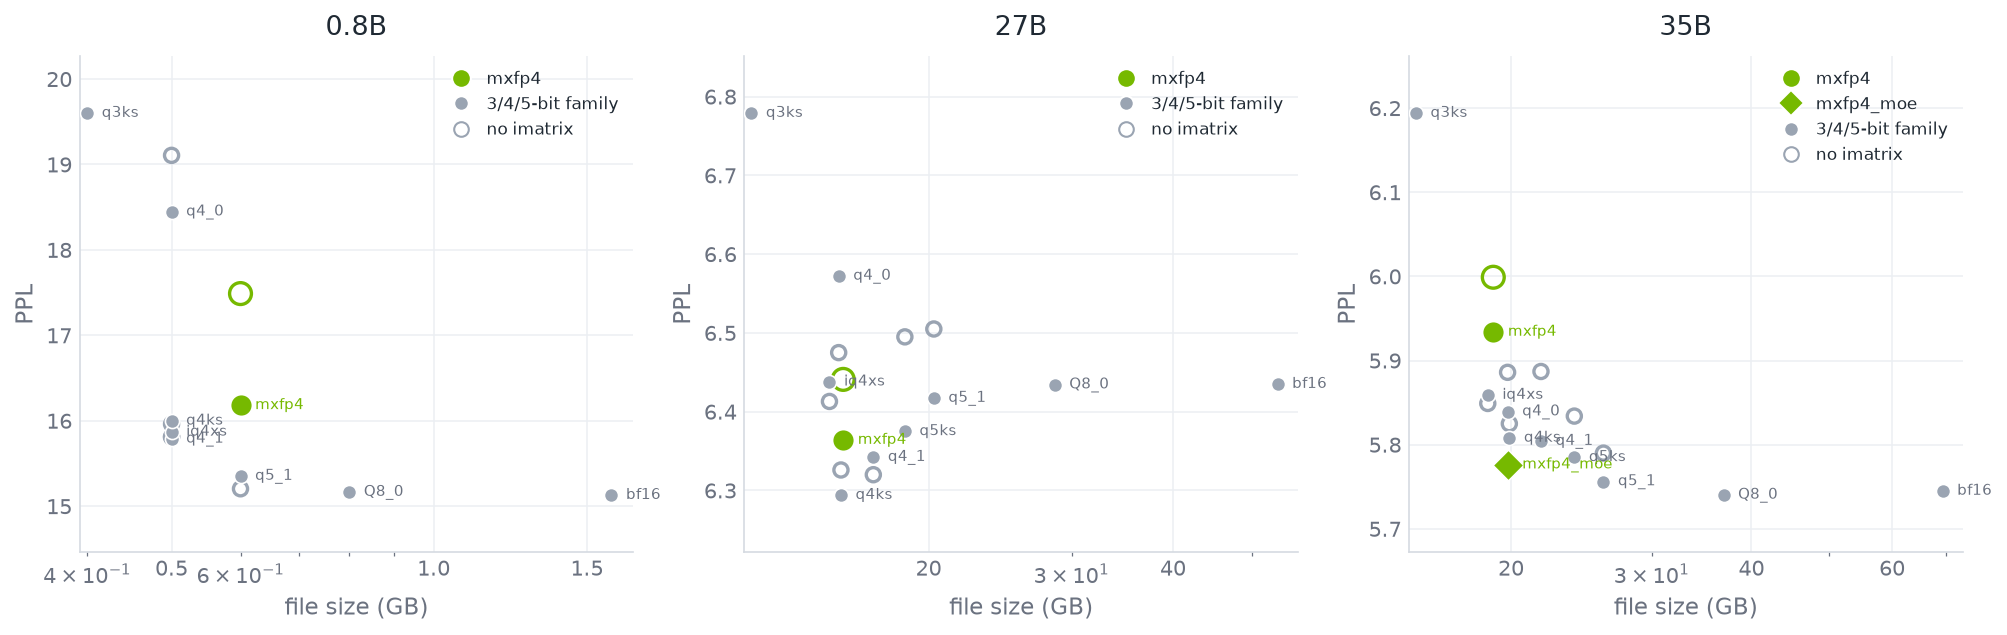
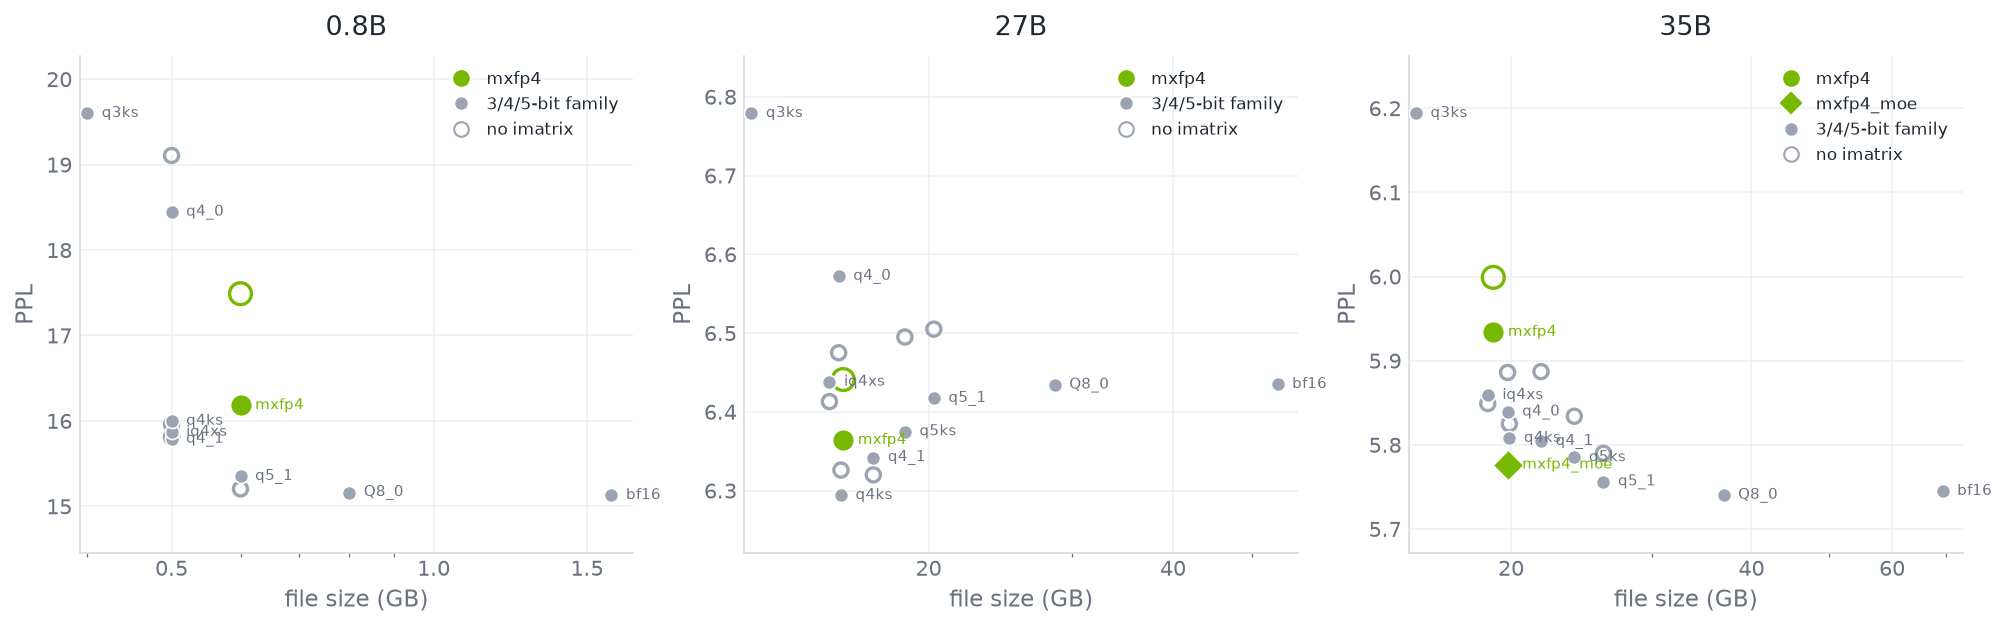
Charts: suppress log-axis minor tick labels - they rendered in scientific notation (2x10^-1, 3.6x10^2, ...); only regular-number major ticks remain labeled
Assisted-by: pi

diff --git a/charts.py b/charts.py
@@ -67,6 +67,7 @@ def style_axes(ax, title=None, xlabel=None, ylabel=None, xlog=False):
         ax.set_ylabel(ylabel, fontsize=11, color=PALETTE["muted"])
     if xlog:
         ax.set_xscale("log")
+        ax.tick_params(which="minor", labelbottom=False, labelleft=False)
     return ax
 
 
@@ -199,6 +200,7 @@ def kv_cache():
         bt = axt.bar(KV_TYPES, [d["tg"][t] for t in KV_TYPES], color=[kv_color(t) for t in KV_TYPES], width=0.72)
         axt.bar_label(bt, fmt="%.1f", fontsize=7, color=PALETTE["text"], padding=2)
         axt.set_yscale("log")
+        axt.tick_params(which="minor", labelleft=False, labelbottom=False)
         axt.set_ylim(min(d["tg"].values()) * 0.9, max(d["tg"].values()) * 1.08)
         from matplotlib.ticker import FuncFormatter, MaxNLocator
         # log scale, but the range spans < 1 decade: place regular-number ticks with a linear-style locator
@@ -311,6 +313,7 @@ def w4a8_vs_w4a4():
             ax[col].set_yscale("log")
             ax[col].yaxis.set_major_locator(MaxNLocator(nbins=4, steps=[1, 2, 2.5, 5, 10]))
             ax[col].yaxis.set_major_formatter(FuncFormatter(lambda v, _: f"{v:.0f}"))
+            ax[col].tick_params(which="minor", labelleft=False, labelbottom=False)
         x = np.arange(len(models))
         w = 0.38
         v4 = [W4A[m][i4] for m in models]
